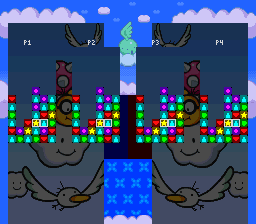
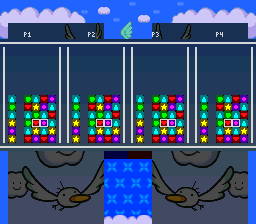
Frame the four player boards
Generate compact horizontal and vertical frame tiles, initialize all four board borders in VBlank-safe batches, move P1-P4 labels above the frames, verify 160 border positions, and update the progress screenshot.

Changed region(s): [[0.0, 0.125, 1.0, 0.6875]]

diff --git a/romhack/tools/compile_panel_tiles.rb b/romhack/tools/compile_panel_tiles.rb
@@ -129,7 +129,18 @@ glyphs = {
   binary << encode_4bpp(pixels)
 end
 
-abort "compiled tile data must be 480 bytes" unless binary.bytesize == 480
+vertical_border = Array.new(8) { Array.new(8, 0) }
+horizontal_border = Array.new(8) { Array.new(8, 0) }
+8.times do |index|
+  vertical_border[index][3] = 1
+  vertical_border[index][4] = 1
+  horizontal_border[3][index] = 1
+  horizontal_border[4][index] = 1
+end
+binary << encode_4bpp(vertical_border)
+binary << encode_4bpp(horizontal_border)
+
+abort "compiled tile data must be 544 bytes" unless binary.bytesize == 544
 File.binwrite(output_path, binary)
 
 sheet = composite_sheet(images)

diff --git a/romhack/README.md b/romhack/README.md
@@ -42,7 +42,7 @@ Visual milestones are captured from Mesen and checked in under `docs/progress/` 
 | Independent well scrolling | Complete | Each controller drives one Mode 2 vertical offset |
 | Virtual P3/P4 board execution | Complete | Original board logic alternates through persistent P3/P4 contexts |
 | Live four-board rendering | Prototype complete | Compact JSON-derived tiles render P1-P4 native/backing panel data |
-| Player cursors and labels | Prototype complete | Independent two-cell outlines plus compact P1-P4 labels |
+| Player frames, cursors, and labels | Prototype complete | Thin four-well borders, independent two-cell outlines, and P1-P4 labels |
 | Four-player menus and HUD | Not started | Capture menu/HUD iterations here once they become interactive |
 
 ![Four-well Mode 2 layout proof](docs/progress/four-well-layout.png)
@@ -51,7 +51,7 @@ The current visual proof deliberately uses flat placeholder tiles. It validates 
 
 ![Live P1-P4 compact panel rendering](docs/progress/live-four-boards.png)
 
-The live renderer uploads the JSON-compiled 8x8 tiles and maps all 288 cells from P1/P2 native state plus P3/P4 backing contexts. It includes independent two-cell cursor outlines and compact player labels. It currently refreshes two rows per NMI, completing all four boards every six frames with reliable active-versus VBlank margin.
+The live renderer uploads the JSON-compiled 8x8 tiles and maps all 288 cells from P1/P2 native state plus P3/P4 backing contexts. It includes thin player frames, independent two-cell cursor outlines, and compact labels. It currently refreshes two rows per NMI, completing all four boards every six frames with reliable active-versus VBlank margin. Frame tiles are initialized eight words at a time using the remaining VBlank budget.
 
 The first compact panel-art export is also available as editable source material:
 

diff --git a/romhack/notes/rom-map.md b/romhack/notes/rom-map.md
@@ -91,7 +91,9 @@ At tutorial frame 3600, the visible 16x16 panel metatiles are four 8x8 SNES 4bpp
 
 `tests/mesen/tilemap_dump.lua` captures VRAM and CGRAM. `tools/export_panel_tiles.rb` assembles the metatiles and produces palette-index JSON plus naive 8x8 PNG starters under `assets/panels/`.
 
-`tools/compile_panel_tiles.rb` reverses the editable `starter_8x8` JSON rows into 15 SNES 4bpp tiles: transparent `$3E0`, normal panels `$3E1-$3E5`, selected panels `$3E6-$3EA`, and labels `$3EB-$3EE`. The live four-board experiment uploads the 480-byte result at VRAM word `$5E00` and renders two rows per NMI across six phases.
+`tools/compile_panel_tiles.rb` reverses the editable `starter_8x8` JSON rows into 17 SNES 4bpp tiles: transparent `$3E0`, normal panels `$3E1-$3E5`, selected panels `$3E6-$3EA`, labels `$3EB-$3EE`, vertical border `$3EF`, and horizontal border `$3F0`. The live four-board experiment uploads the 544-byte result at VRAM word `$5E00` and renders two rows per NMI across six phases.
+
+Board frames occupy horizontal rows 5 and 18 plus vertical columns 0/7, 8/15, 16/23, and 24/31. A 20-phase initializer writes eight frame words per NMI, avoiding a large one-frame VBlank spike.
 
 Native cursor coordinates are paired words:
 

diff --git a/romhack/assets/panels/README.md b/romhack/assets/panels/README.md
@@ -29,7 +29,7 @@ The data flow is:
 panels.json starter_8x8
   -> panel-*-8x8.png
   -> panel-starter-8x8.png and preview
-  -> build/panel-tiles.4bpp (normal, selected, and P1-P4 label tiles)
+  -> build/panel-tiles.4bpp (normal, selected, label, and frame tiles)
   -> live-four-boards experiment
 ```
 
